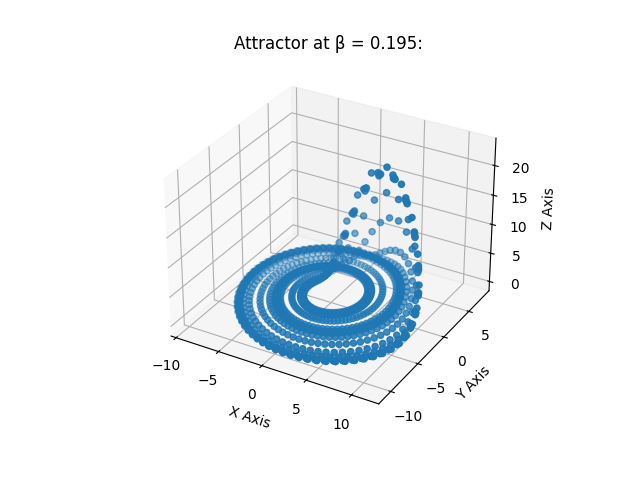
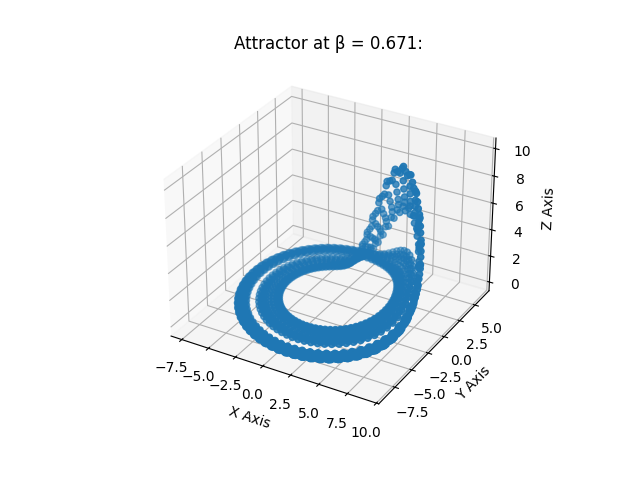
commit post break

diff --git a/Evolutionary Optimization.py b/Evolutionary Optimization.py
@@ -268,28 +268,28 @@ print("TIME: ", elapsed_time)
 # PLOTS
 
 # plot max and avg fitness (copied from deap notation)
-gen = logbook.select("gen")
-fit_maxs = logbook.select("max")
-fit_avgs = logbook.select("avg")
+# gen = logbook.select("gen")
+# fit_maxs = logbook.select("max")
+# fit_avgs = logbook.select("avg")
 
-fig, ax1 = plt.subplots()
-line1 = ax1.plot(gen, fit_maxs, "b-", label="Maximum Fitness")
-ax1.set_xlabel("Generation")
-ax1.set_ylabel("Fitness", color="b")
-for tl in ax1.get_yticklabels():
-    tl.set_color("b")
+# fig, ax1 = plt.subplots()
+# line1 = ax1.plot(gen, fit_maxs, "b-", label="Maximum Fitness")
+# ax1.set_xlabel("Generation")
+# ax1.set_ylabel("Fitness", color="b")
+# for tl in ax1.get_yticklabels():
+#     tl.set_color("b")
 
-ax2 = ax1.twinx()
-line2 = ax2.plot(gen, fit_avgs, "r-", label="Average Fitness")
-ax2.set_ylabel("Avg", color="r")
-for tl in ax2.get_yticklabels():
-    tl.set_color("r")
+# ax2 = ax1.twinx()
+# line2 = ax2.plot(gen, fit_avgs, "r-", label="Average Fitness")
+# ax2.set_ylabel("Avg", color="r")
+# for tl in ax2.get_yticklabels():
+#     tl.set_color("r")
 
-lns = line1 + line2
-labs = [l.get_label() for l in lns]
-ax1.legend(lns, labs, loc="center right")
+# lns = line1 + line2
+# labs = [l.get_label() for l in lns]
+# ax1.legend(lns, labs, loc="center right")
 
-plt.show()
+# plt.show()
 
 
 

diff --git a/EvoOpt_AllB.py b/EvoOpt_AllB.py
@@ -271,8 +271,7 @@ for i, (b_key, arr) in enumerate(values_pkl.items()):
 # write out best fitnesses to text file just in case
 with open('best_scores.txt', 'w') as file:
     for score in best_scores:
-        row_string = ' '.join(map(str, score))
-        file.write(row_string + '\n')
+        file.write(str(score) + '\n')  # Just convert the single float to string
 
 
 

diff --git a/Rossler Attractor.py b/Rossler Attractor.py
@@ -82,7 +82,7 @@ for i, b in enumerate(b_list):
 
     # 3D Plots
     # For 5 different indexes
-    if i % 50 == 0: 
+    if i % 225 == 0: 
         fig = plt.figure() # create figure
         ax = fig.add_subplot(111, projection='3d') # add new axis
         ax.scatter(xs = x_values, ys = y_values, zs = z_values, zdir='z', s=20, c=None, depthshade=True)
